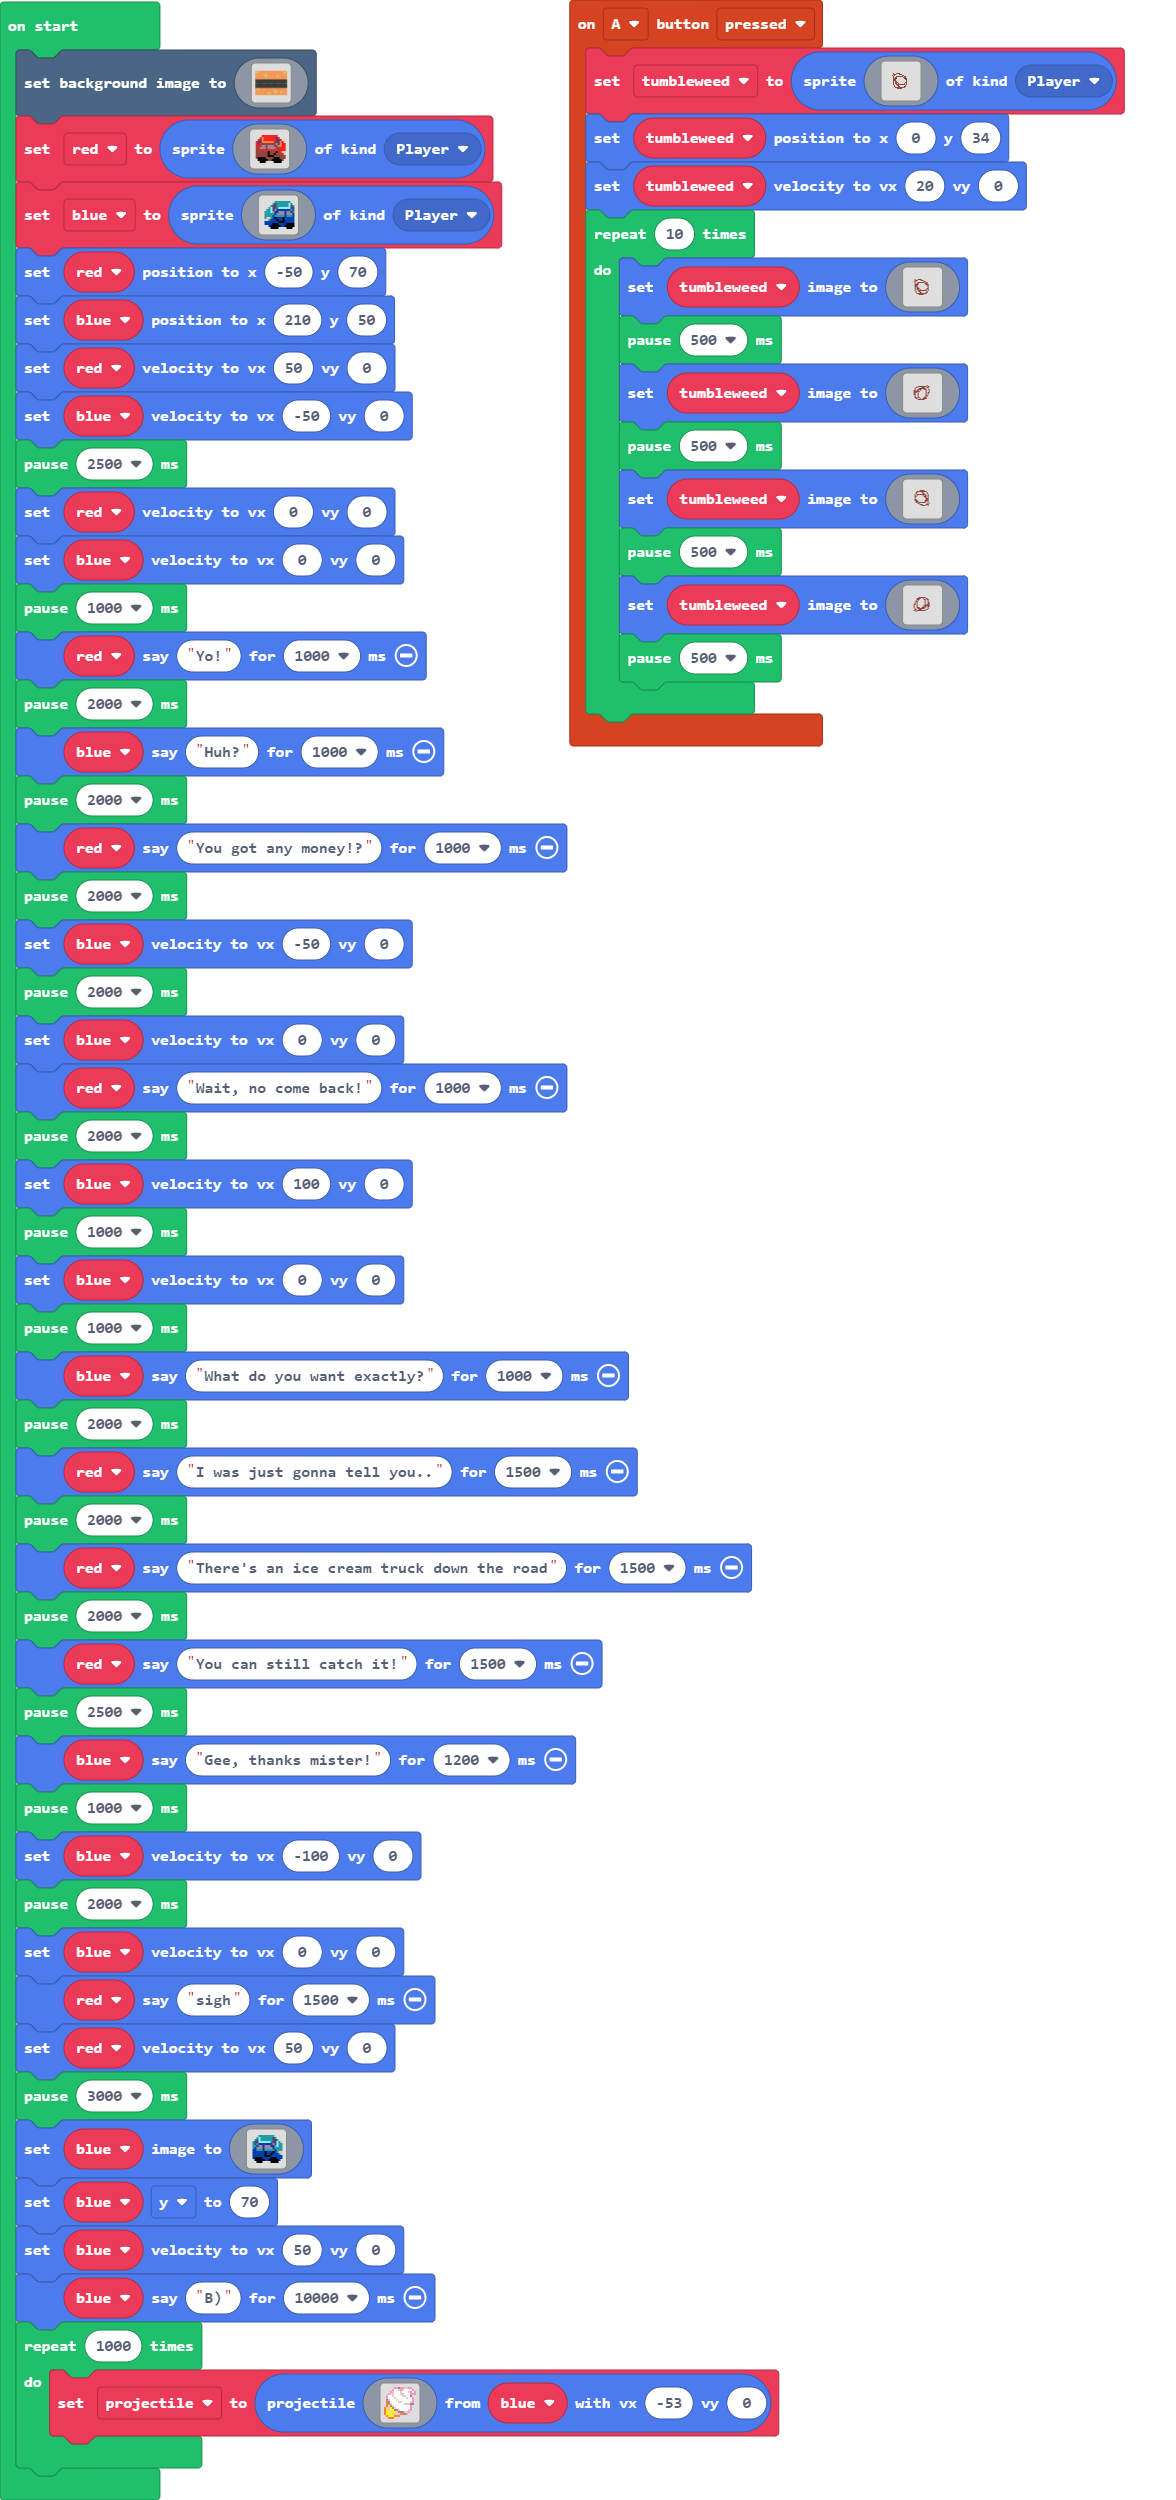
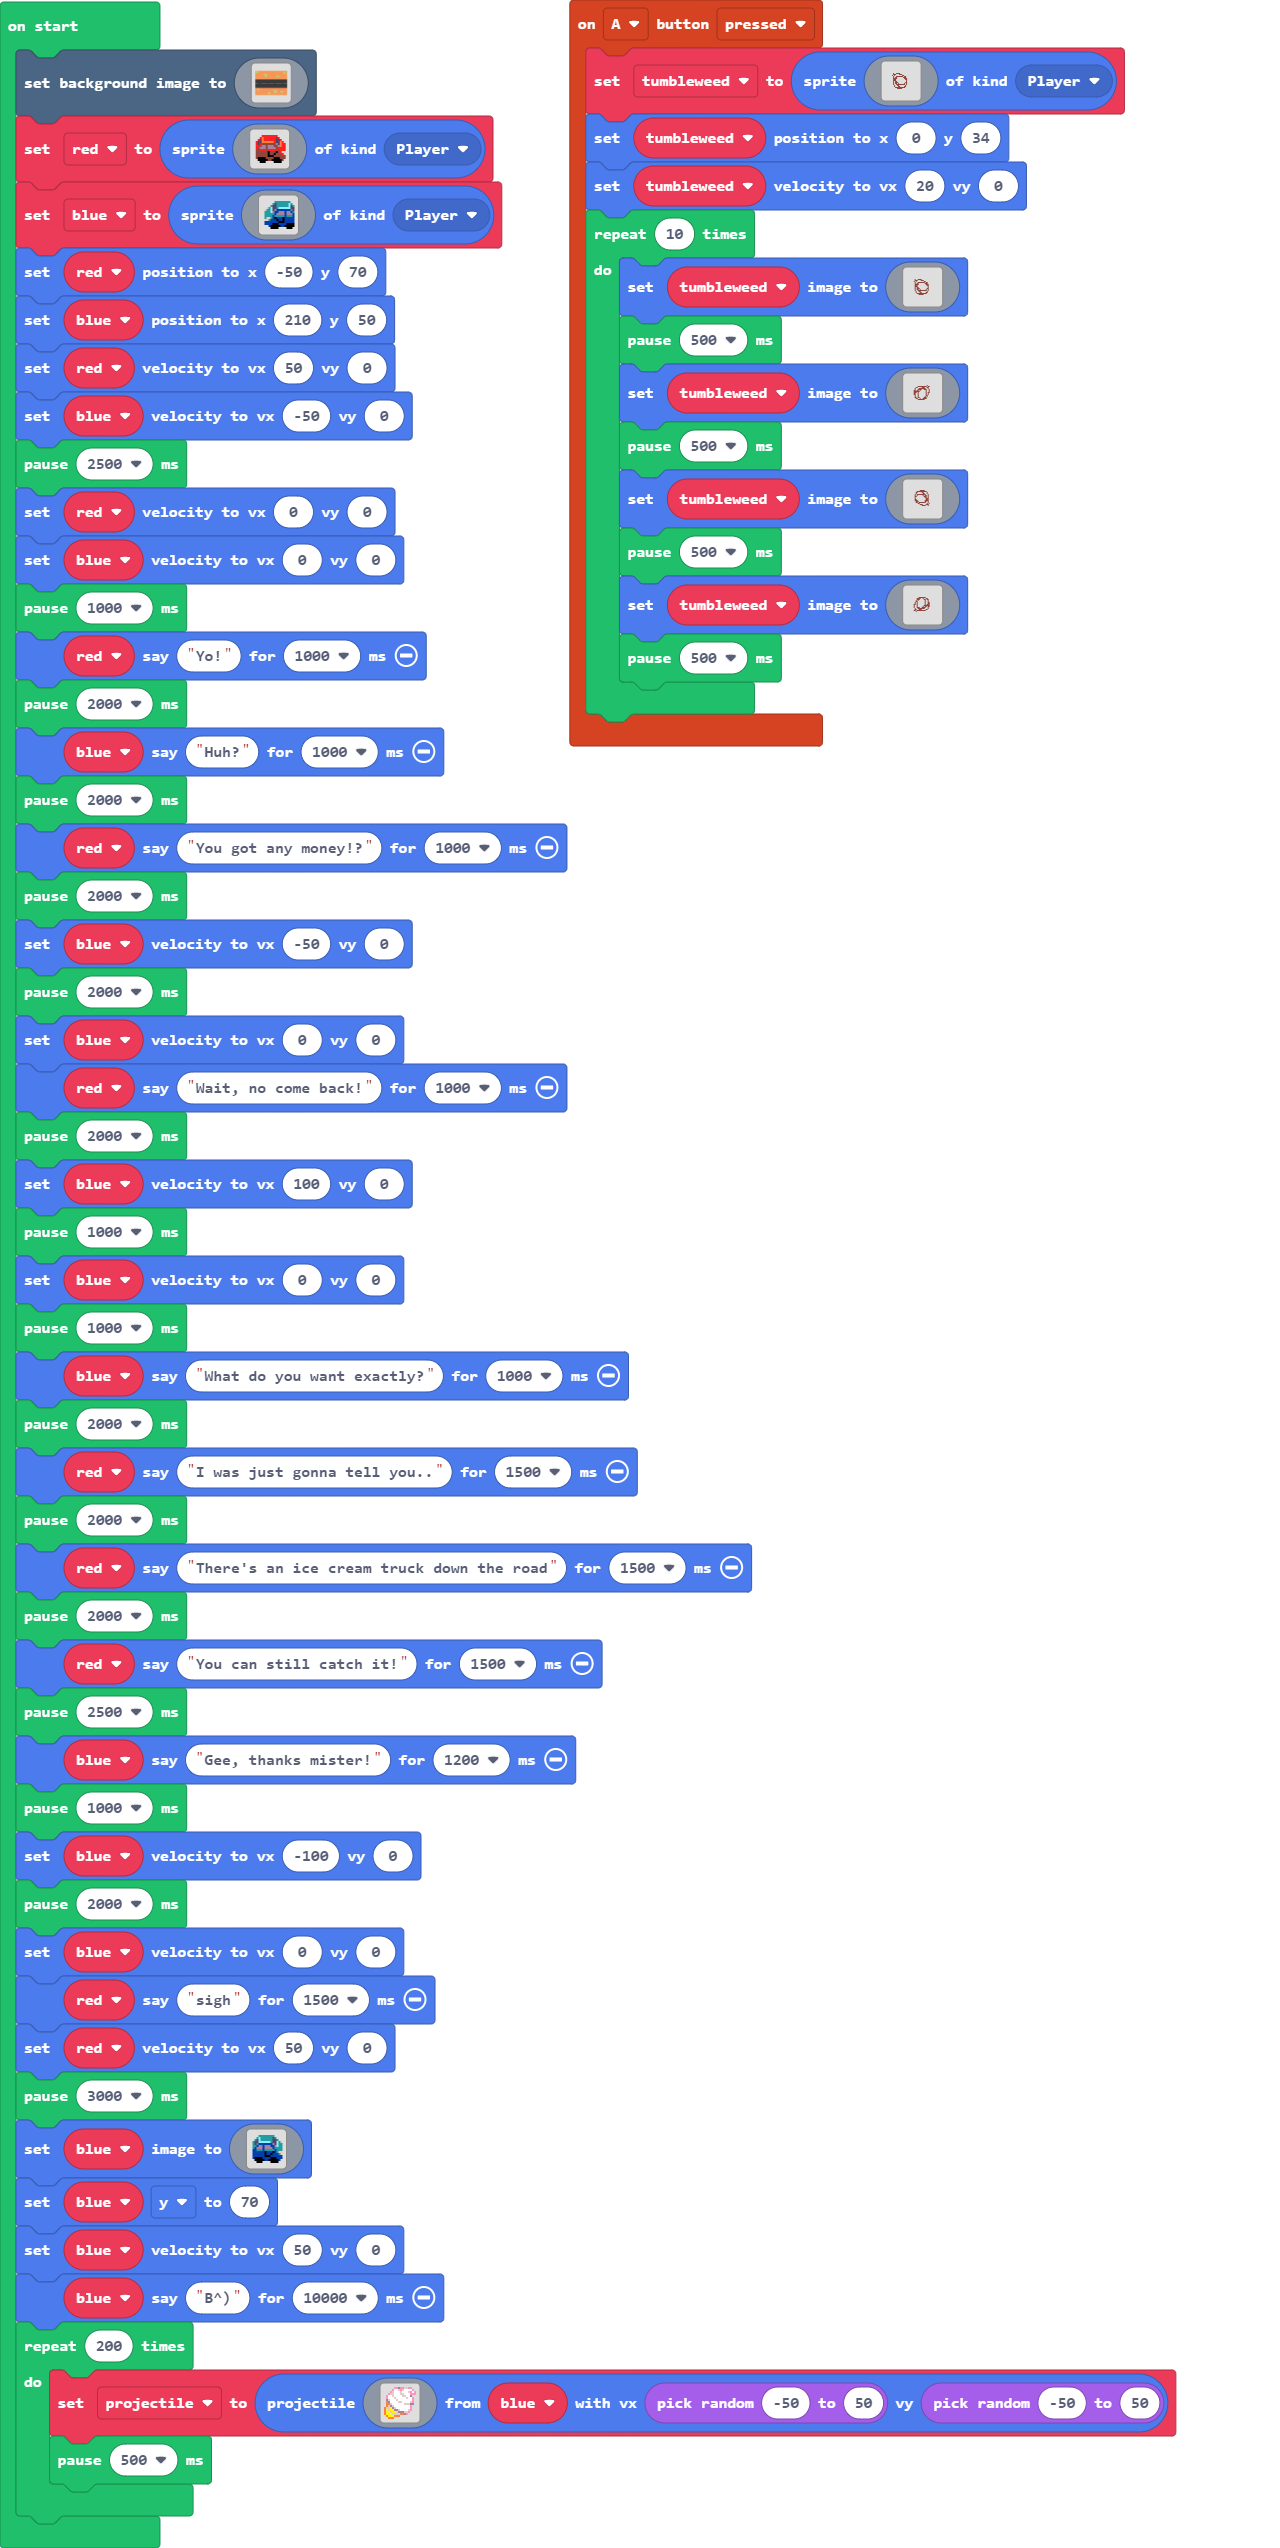
works

diff --git a/main.ts b/main.ts
@@ -397,8 +397,8 @@ blue.setImage(img`
     `)
 blue.y = 70
 blue.setVelocity(50, 0)
-blue.say("B)", 10000)
-for (let index = 0; index < 1000; index++) {
+blue.say("B^)", 10000)
+for (let index = 0; index < 200; index++) {
     projectile = sprites.createProjectileFromSprite(img`
         . . . . . 3 3 b 3 3 d d 3 3 . . 
         . . . . 3 1 1 d 3 d 1 1 1 1 3 . 
@@ -416,5 +416,6 @@ for (let index = 0; index < 1000; index++) {
         4 5 5 5 d d d d 4 4 b 3 . . . . 
         . 4 5 5 5 4 4 4 . . . . . . . . 
         . . 4 4 4 . . . . . . . . . . . 
-        `, blue, -53, 0)
+        `, blue, randint(-50, 50), randint(-50, 50))
+    pause(500)
 }
